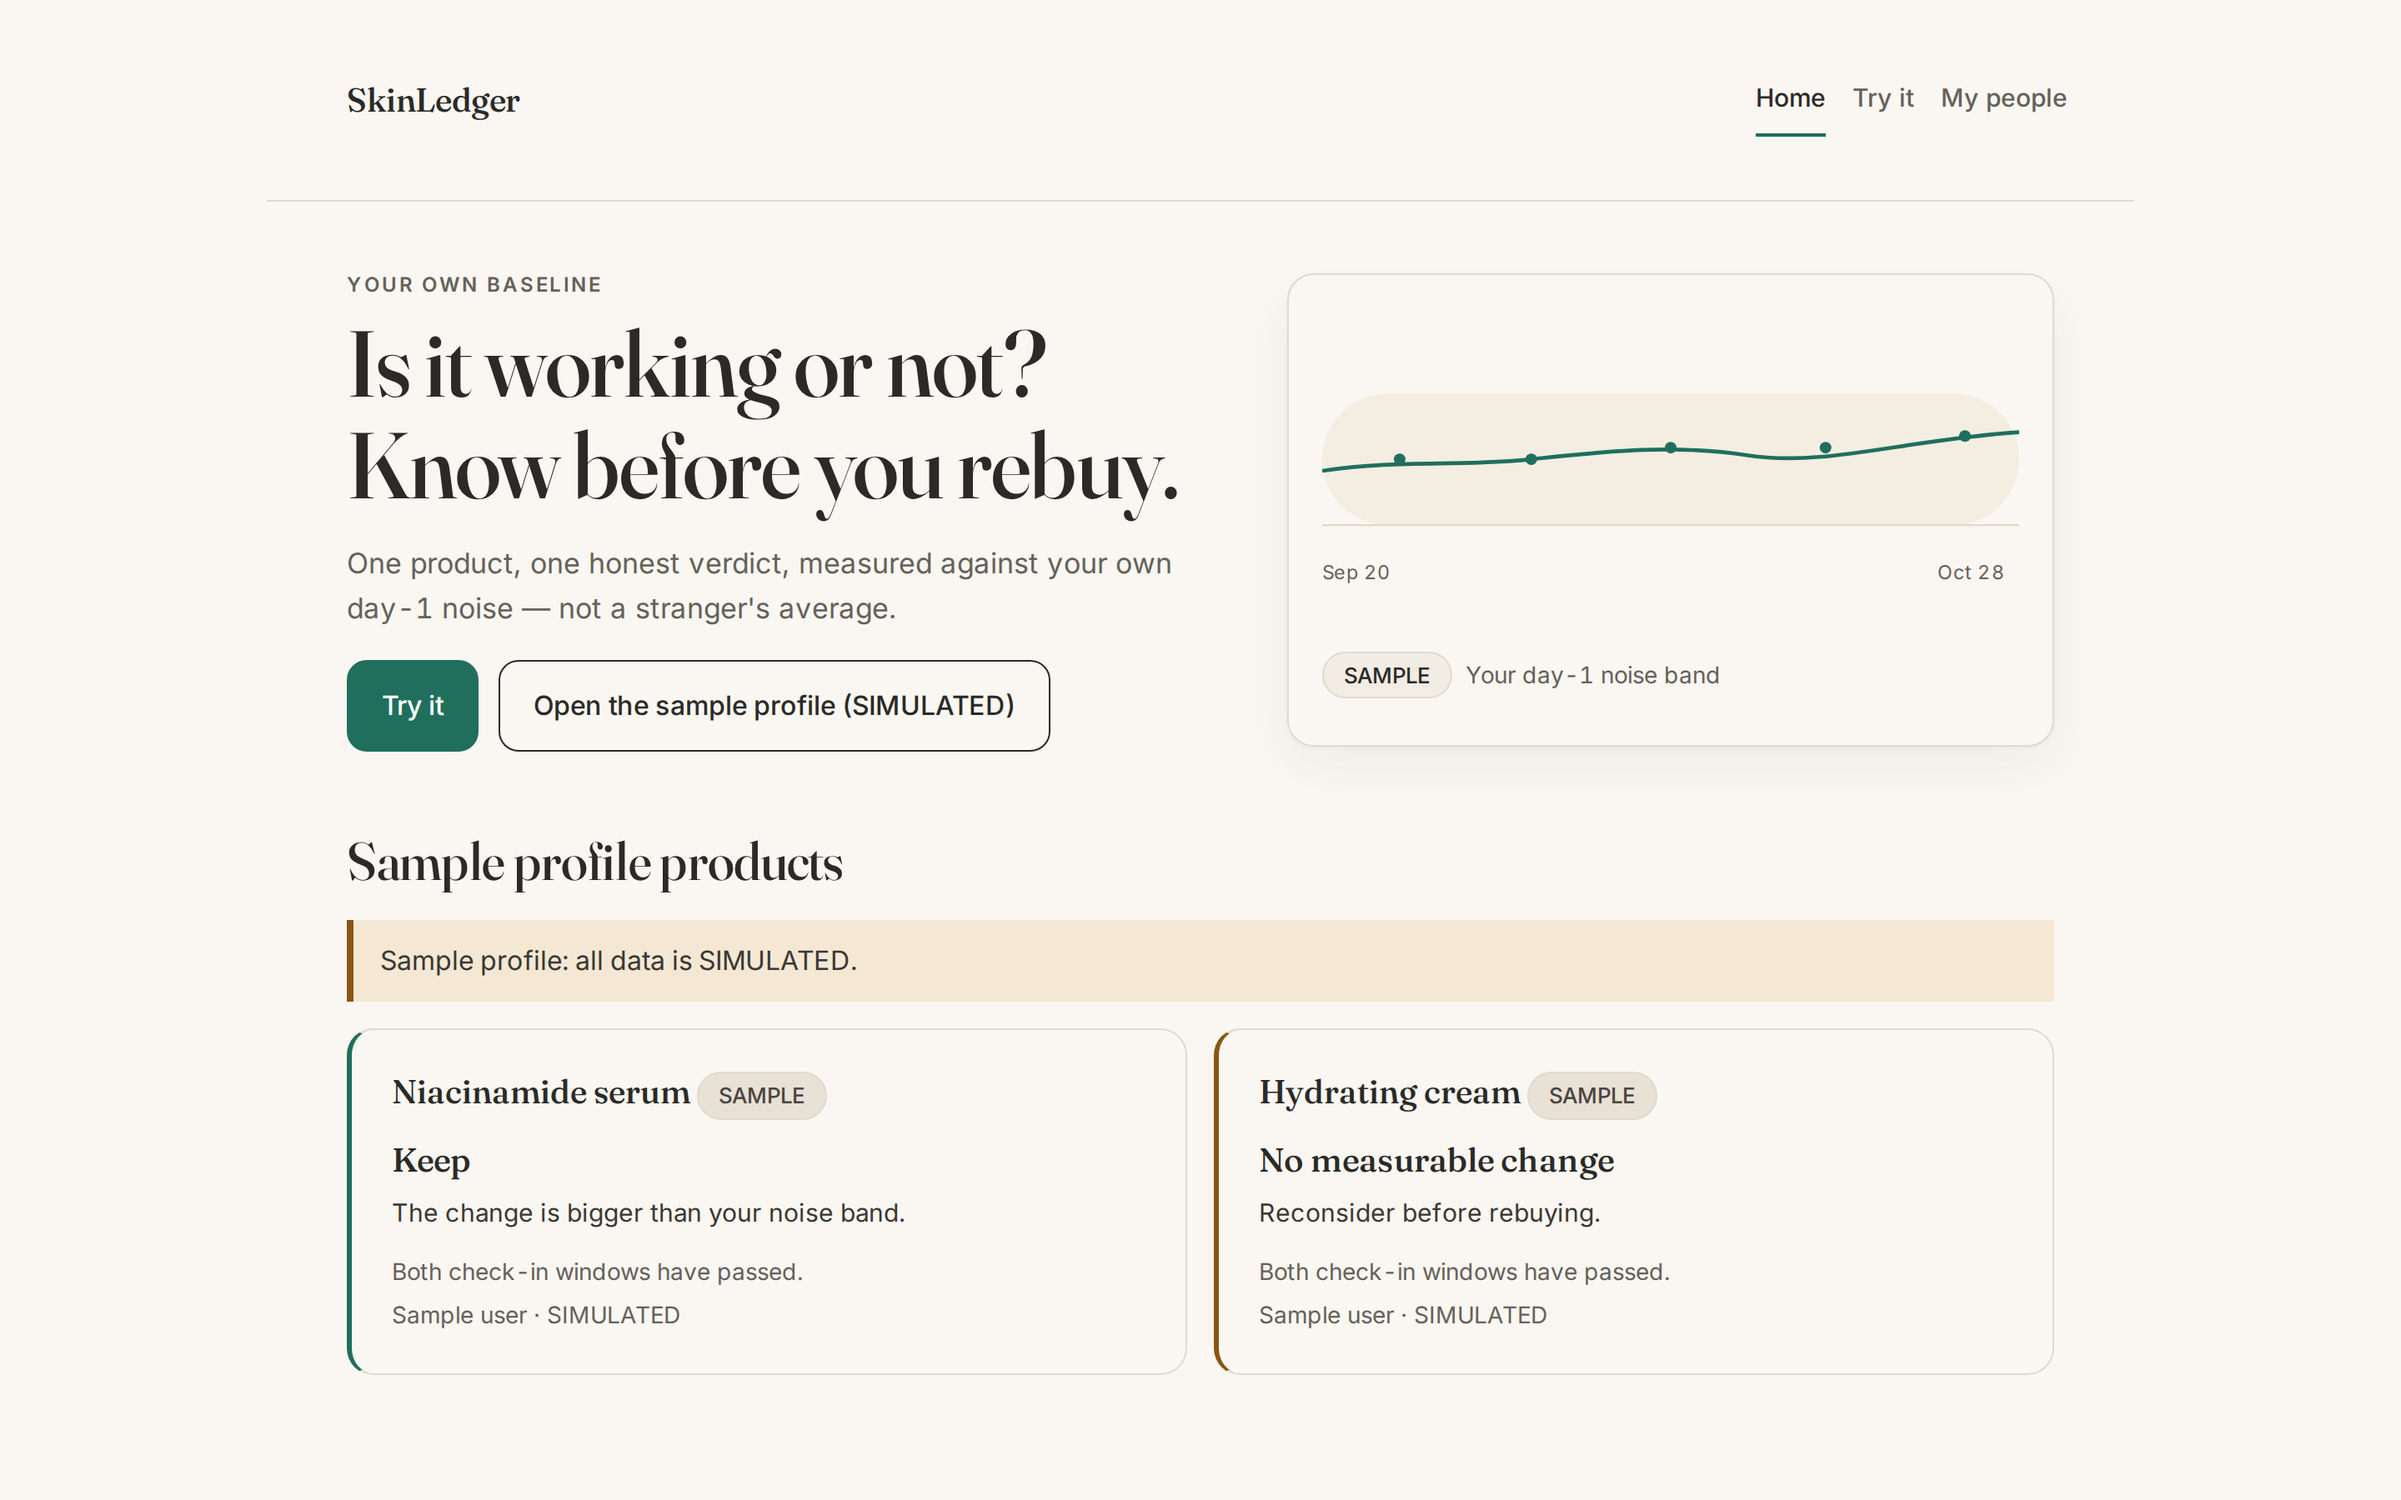
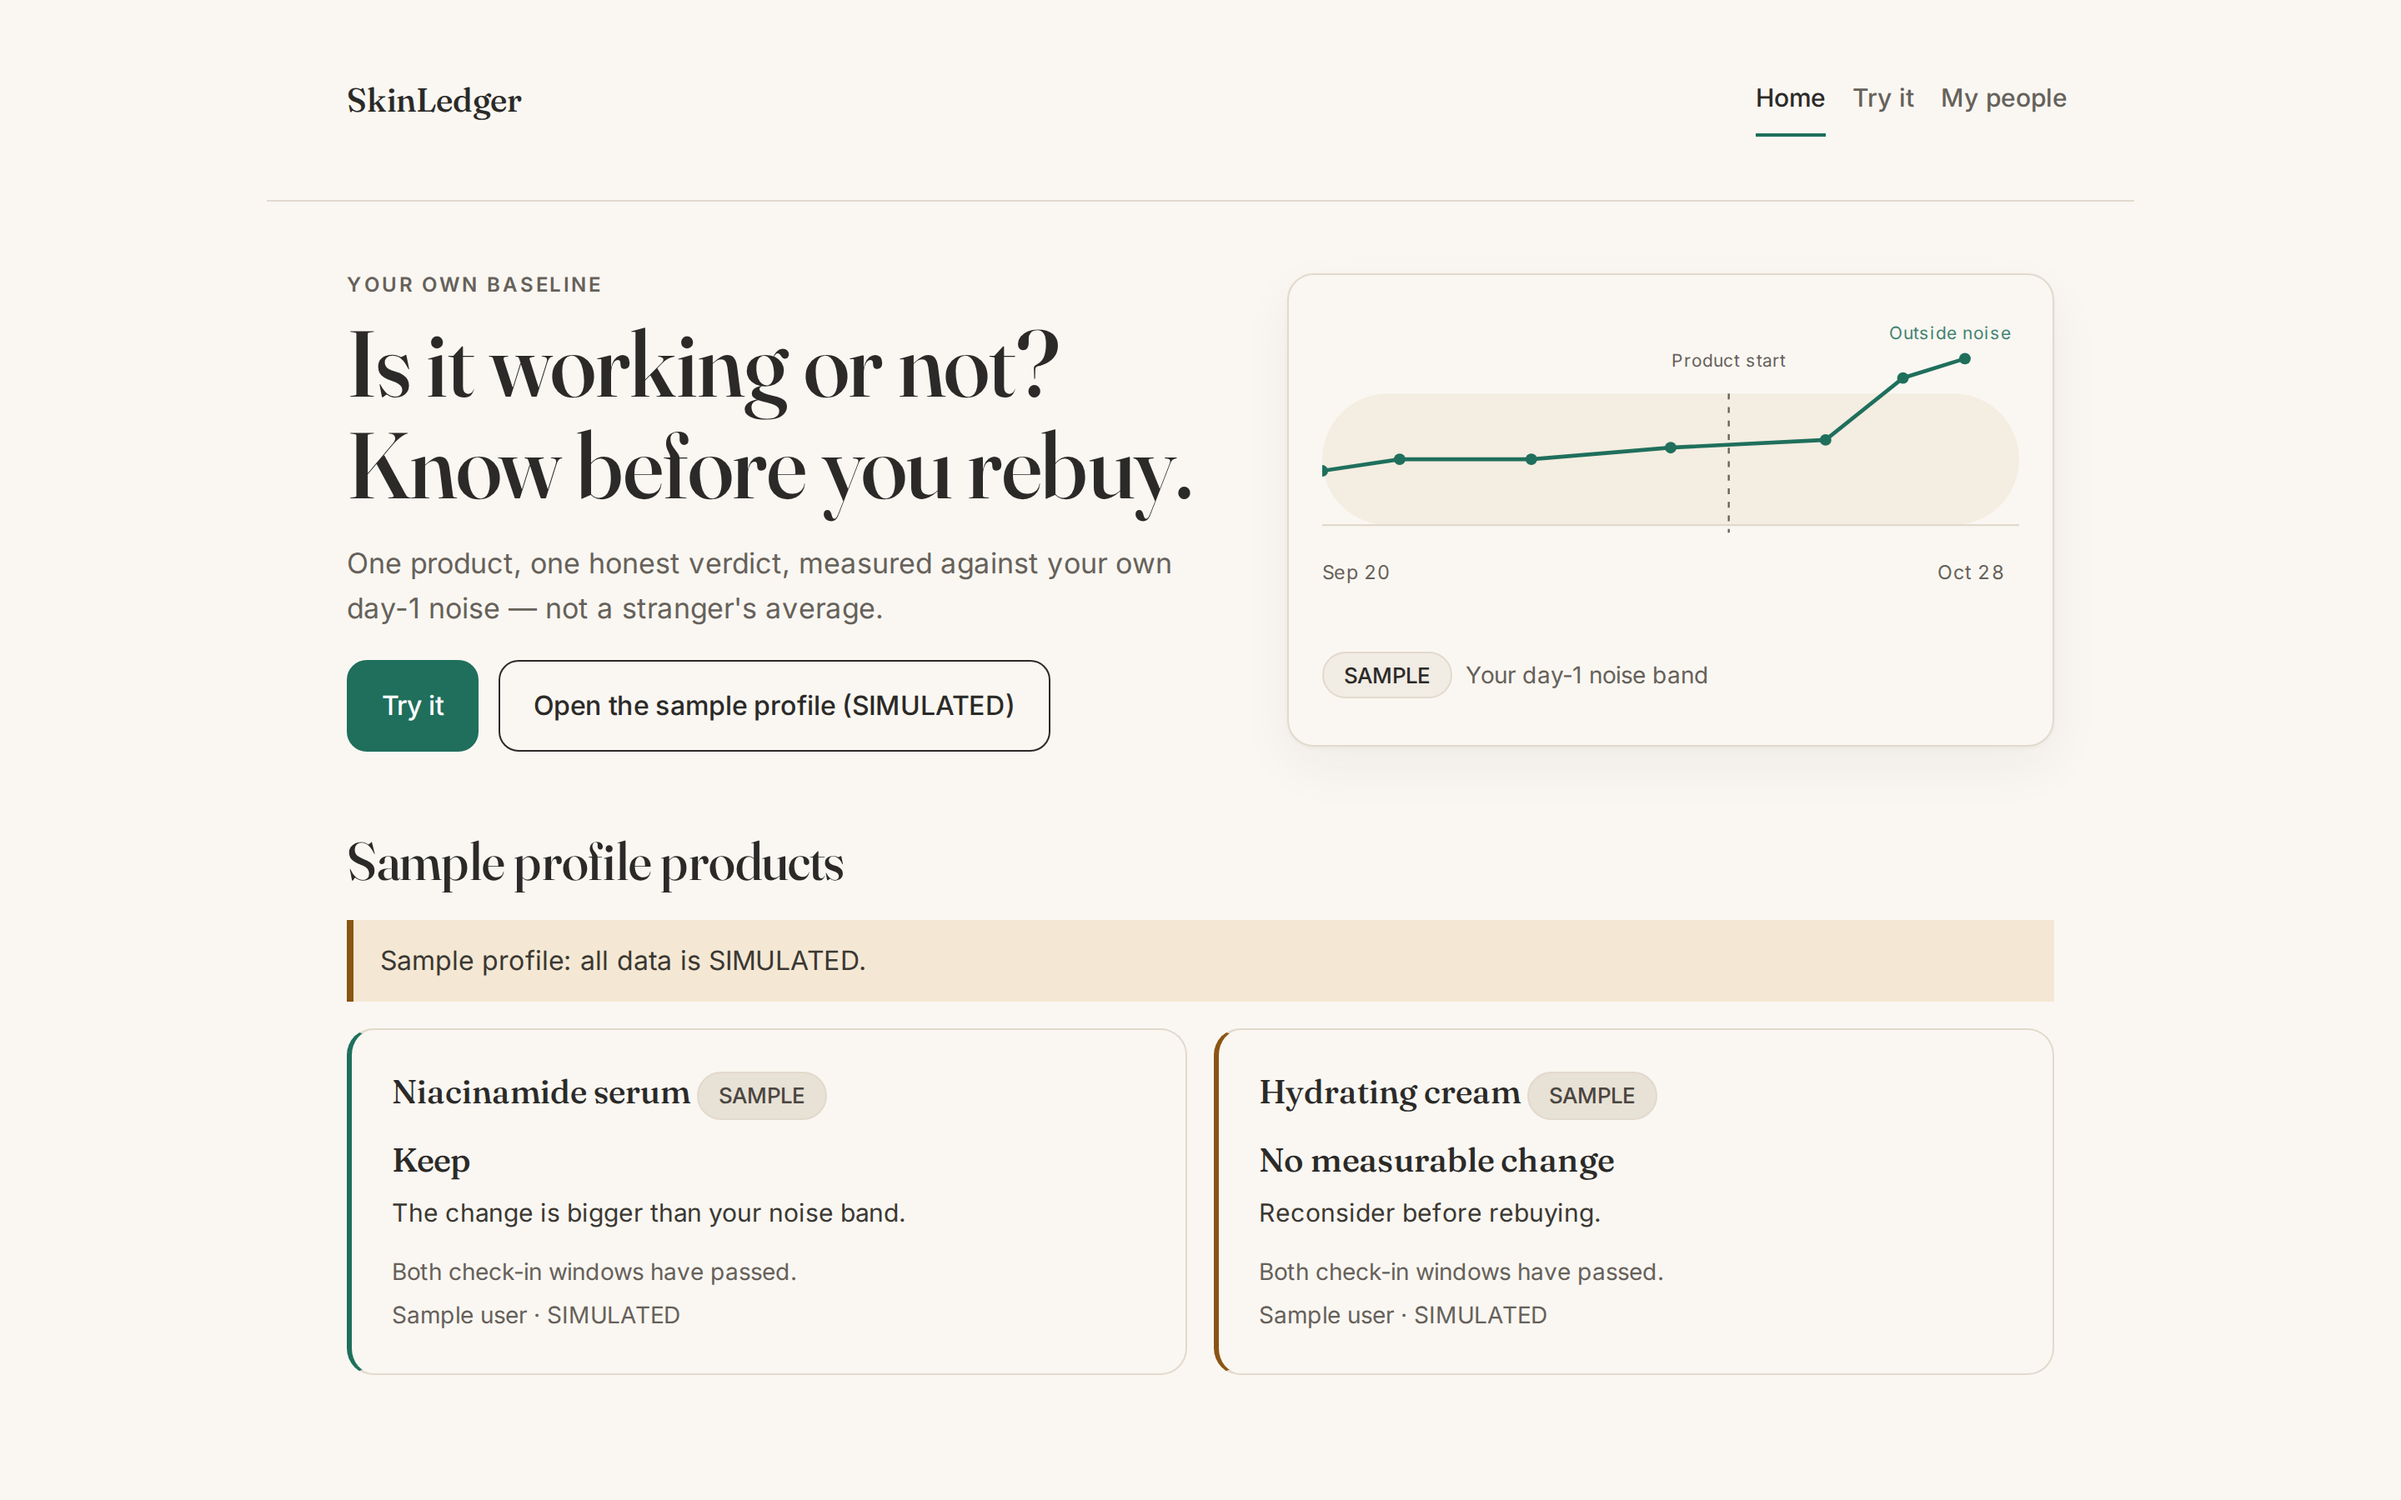
P16c-2b1: hyphen spacing, display tracking, noise-band story

diff --git a/src/skinledger/web/templates/index.html b/src/skinledger/web/templates/index.html
@@ -12,16 +12,22 @@
 
   <figure class="home-band">
     <svg viewBox="0 0 360 160" role="img"
-         aria-label="Sample noise band: a score line staying inside a soft band">
+         aria-label="Sample noise band: points inside the band, then two points above it after the product start">
       <rect x="0" y="44" width="360" height="68" rx="34" fill="var(--sl-sand-wash)"></rect>
       <line x1="0" y1="112" x2="360" y2="112" stroke="var(--sl-rule)" stroke-width="1"></line>
-      <path d="M0 84 C40 78 70 82 108 78 S180 70 220 76 S300 68 360 64"
-            fill="none" stroke="var(--sl-accent)" stroke-width="2"></path>
+      <line x1="210" y1="44" x2="210" y2="116" stroke="var(--sl-chart-product)"
+            stroke-width="1" stroke-dasharray="3 4"></line>
+      <text x="210" y="30" class="band-label" text-anchor="middle">Product start</text>
+      <polyline points="0,84 40,78 108,78 180,72 260,68 300,36 332,26"
+                fill="none" stroke="var(--sl-accent)" stroke-width="2"></polyline>
+      <circle cx="0" cy="84" r="3" fill="var(--sl-accent)"></circle>
       <circle cx="40" cy="78" r="3" fill="var(--sl-accent)"></circle>
       <circle cx="108" cy="78" r="3" fill="var(--sl-accent)"></circle>
       <circle cx="180" cy="72" r="3" fill="var(--sl-accent)"></circle>
-      <circle cx="260" cy="72" r="3" fill="var(--sl-accent)"></circle>
-      <circle cx="332" cy="66" r="3" fill="var(--sl-accent)"></circle>
+      <circle cx="260" cy="68" r="3" fill="var(--sl-accent)"></circle>
+      <circle cx="300" cy="36" r="3" fill="var(--sl-accent)"></circle>
+      <circle cx="332" cy="26" r="3" fill="var(--sl-accent)"></circle>
+      <text x="356" y="16" class="band-label band-outside" text-anchor="end">Outside noise</text>
       <text x="0" y="140" class="band-axis">Sep 20</text>
       <text x="318" y="140" class="band-axis">Oct 28</text>
     </svg>

diff --git a/src/skinledger/web/static/app.css b/src/skinledger/web/static/app.css
@@ -235,6 +235,9 @@ body {
   background: var(--sl-page);
   color: var(--sl-body);
   font-family: var(--sl-font-sans);
+}
+
+.num {
   font-variant-numeric: tabular-nums;
 }
 
@@ -249,7 +252,8 @@ h3 {
 h1 {
   font-size: clamp(2.25rem, 6vw, 3.5rem);
   line-height: 1.08;
-  letter-spacing: -0.01em;
+  letter-spacing: -0.005em;
+  word-spacing: 0.01em;
   font-variation-settings: "opsz" 144;
 }
 
@@ -257,6 +261,7 @@ h2 {
   font-size: clamp(1.6rem, 3vw, 2rem);
   line-height: 1.15;
   letter-spacing: -0.005em;
+  word-spacing: 0.01em;
   font-variation-settings: "opsz" 96;
 }
 
@@ -327,7 +332,8 @@ body > header nav .wordmark {
   font-weight: 500;
   color: var(--sl-ink);
   text-decoration: none;
-  letter-spacing: -0.01em;
+  letter-spacing: -0.005em;
+  word-spacing: 0.01em;
   font-variation-settings: "opsz" 48;
 }
 
@@ -1312,6 +1318,20 @@ input[type="file"]::file-selector-button:hover {
   font-size: 10px;
   letter-spacing: 0.02em;
   fill: var(--sl-muted);
+  font-variant-numeric: tabular-nums;
+}
+
+.band-label {
+  font-family: var(--sl-font-sans);
+  font-size: 9px;
+  letter-spacing: 0.04em;
+  fill: var(--sl-muted);
+}
+
+.band-outside {
+  fill: var(--sl-accent);
+  opacity: 0.85;
+  font-variant-numeric: tabular-nums;
 }
 
 .home-hero-actions {
